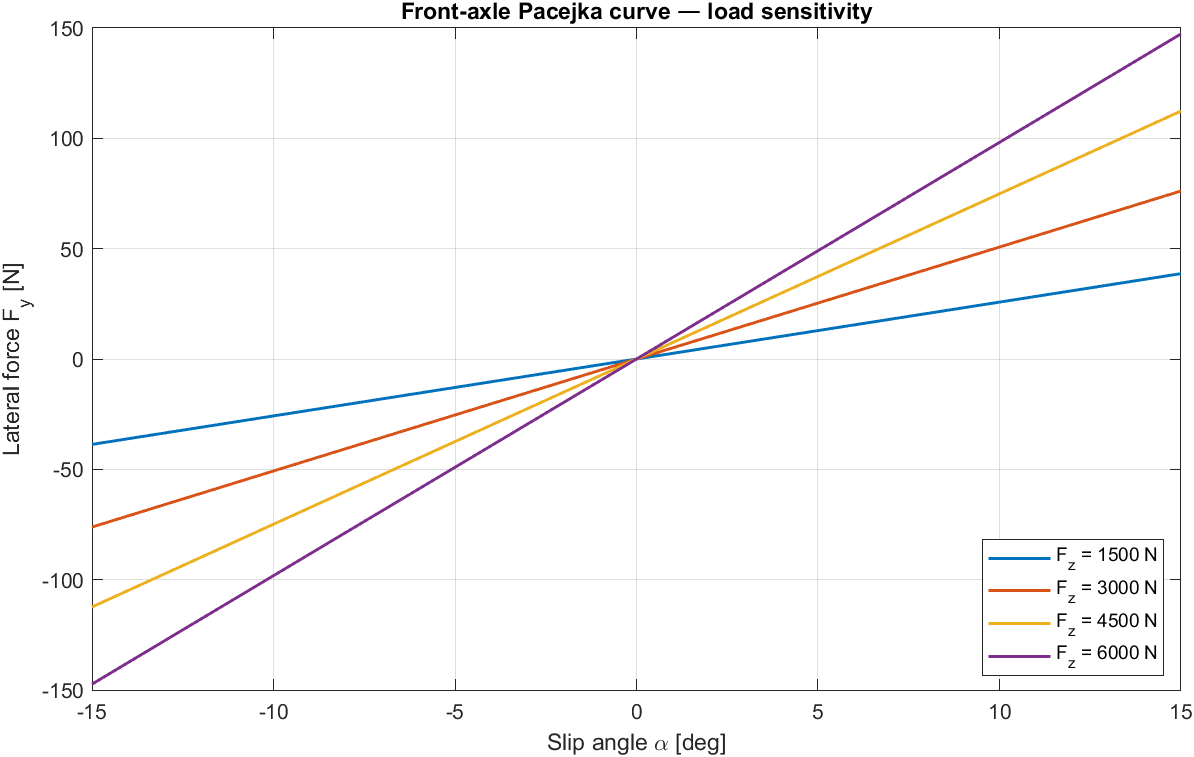
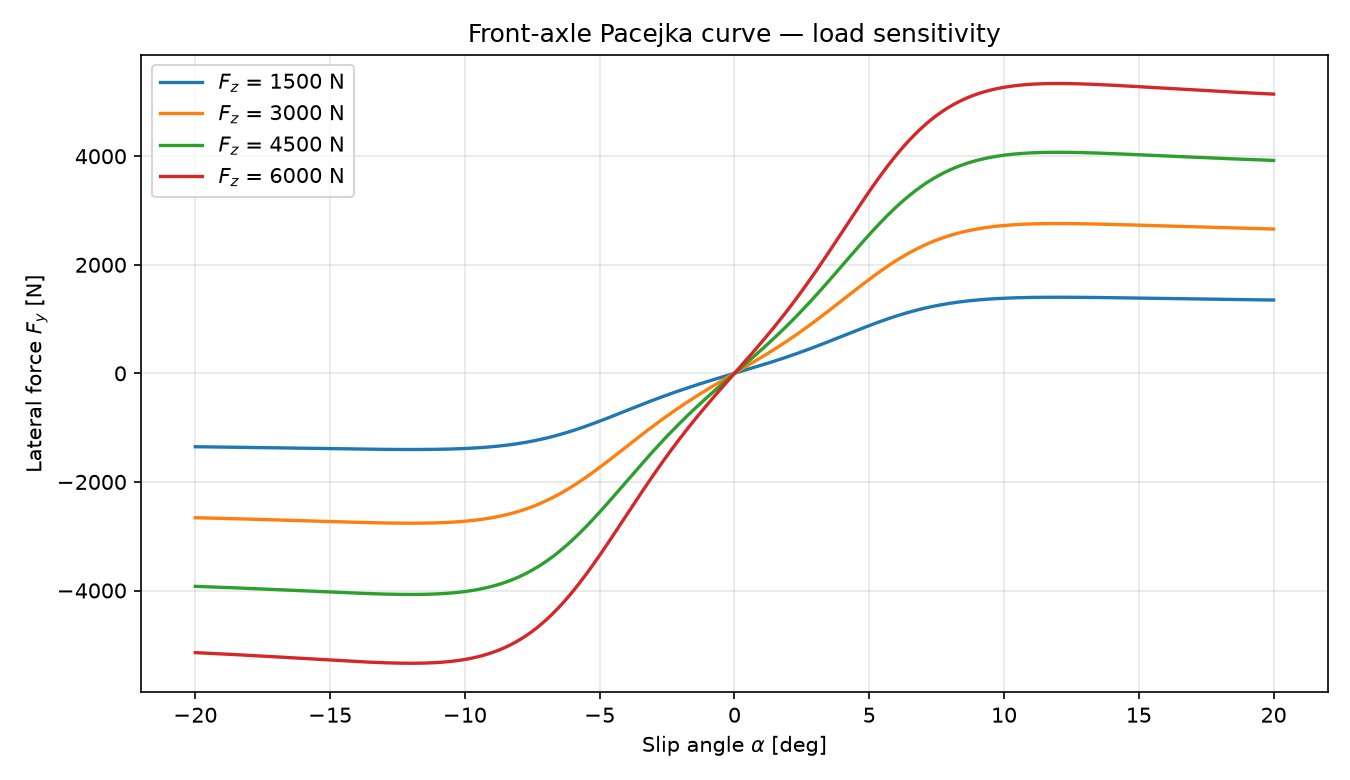
Modernise: CI smoke tests, slip-unit fix in Pacejka plots, cleanup
- Remove internal review notes (NOTES_FOR_REVIEW.md, HOW_TO_PUBLISH.md)
- Fix plot_pacejka_curves.m: coefficients expect slip angle in degrees
  (models convert rad->deg before the tyre block); figures regenerated
- Add smoke-test suite: every parameter file runs, every .slx loads
- MATLAB build tool plan + GitHub Actions CI (Simulink, Aerospace Blockset)
- Open in MATLAB Online badge, quick start, Dependabot

Claude-Session: https://claude.ai/code/session_01BhFvkV62v96ivustyEBc4v

diff --git a/tests/ModelsTest.m b/tests/ModelsTest.m
@@ -1,0 +1,61 @@
+classdef ModelsTest < matlab.unittest.TestCase
+    %MODELSTEST  Smoke tests: every parameter file runs and every Simulink model loads.
+    %   Run with:  buildtool test
+
+    properties (TestParameter)
+        paramFile = struct( ...
+            "quarterCar",   "01_quarter_car/Quarter_car_model_parameters.m", ...
+            "dof4",         "02_dof4/DOF4_model_parameters.m", ...
+            "dof7",         "03_dof7_shaker/Suspension_shaker_rig_model_parameters.m", ...
+            "dof10",        "04_dof10_shaker/Suspension_shaker_rig_dof10_model_parameters.m", ...
+            "dof14",        "05_dof14_full_vehicle/Complete_vehicle_simulation_dof14_model_parameters.m", ...
+            "bicycle",      "06_bicycle/Bicycle_model_parameters_formula.m", ...
+            "driving",      "07_longitudinal/Driving_dynamics_parameters.m", ...
+            "longDriving",  "07_longitudinal/Longitudinal_driving_parameters.m", ...
+            "braking",      "07_longitudinal/Longitudinal_braking_parameters.m", ...
+            "pacejka",      "08_pacejka_tyres/Pacejka_lateral_parameters.m");
+
+        model = struct( ...
+            "quarterCar",   "01_quarter_car/Quarter_car_model.slx", ...
+            "dof4",         "02_dof4/DOF4_model.slx", ...
+            "dof7",         "03_dof7_shaker/Suspension_shaker_rig_model.slx", ...
+            "dof10",        "04_dof10_shaker/DOF10_Suspension_shaker_rig_model.slx", ...
+            "dof14",        "05_dof14_full_vehicle/Complete_vehicle_simulation_dof14_model.slx", ...
+            "bicycle",      "06_bicycle/Bicycle_model.slx", ...
+            "braking",      "07_longitudinal/Braking_dynamics_model.slx", ...
+            "driving",      "07_longitudinal/Driving_dynamics_model.slx", ...
+            "pacejkaLat",   "08_pacejka_tyres/Pacejka_lateral_tyre_model.slx", ...
+            "pacejkaLong",  "08_pacejka_tyres/Pacejka_longitudinal_tyre_model.slx", ...
+            "pacejka",      "08_pacejka_tyres/Pacejka_tyre_model.slx");
+    end
+
+    properties
+        Root
+    end
+
+    methods (TestClassSetup)
+        function setRoot(tc)
+            tc.Root = fileparts(fileparts(mfilename("fullpath")));
+        end
+    end
+
+    methods (Test)
+        function parameterFileRuns(tc, paramFile)
+            f = fullfile(tc.Root, paramFile);
+            tc.verifyWarningFree(@() evalinIsolated(f));
+        end
+
+        function modelLoads(tc, model)
+            f = fullfile(tc.Root, model);
+            [~, name] = fileparts(f);
+            load_system(f);
+            tc.addTeardown(@() close_system(name, 0));
+            tc.verifyTrue(bdIsLoaded(name));
+        end
+    end
+end
+
+function evalinIsolated(file)
+% Run a parameter script in its own workspace so tests stay independent
+run(file);
+end

diff --git a/buildfile.m b/buildfile.m
@@ -1,0 +1,25 @@
+function plan = buildfile
+%BUILDFILE  MATLAB build plan (R2023b+).
+%   buildtool            -> static code analysis + smoke tests (models load, params run)
+%   buildtool figures    -> regenerate the README figures (needs results/data/*.mat)
+import matlab.buildtool.tasks.CodeIssuesTask
+import matlab.buildtool.tasks.TestTask
+
+plan = buildplan(localfunctions);
+
+plan("check") = CodeIssuesTask(["shared", "figures", "tests"]);
+plan("test")  = TestTask("tests");
+
+plan.DefaultTasks = ["check", "test"];
+end
+
+function figuresTask(~)
+% Regenerate the README figures
+here = pwd;
+cleanup = onCleanup(@() cd(here));
+cd(fullfile(fileparts(mfilename("fullpath")), "figures"));
+for s = ["plot_pacejka_curves", "plot_aero_comparison", "plot_vehicle_comparison", "plot_fft_modes"]
+    run(s);
+    close all;
+end
+end

diff --git a/figures/plot_pacejka_curves.m b/figures/plot_pacejka_curves.m
@@ -21,8 +21,9 @@ addpath('../05_dof14_full_vehicle');
 Complete_vehicle_simulation_dof14_model_parameters;
 
 %% Slip-angle sweep
-alpha_deg = -15:0.1:15;
-alpha     = deg2rad(alpha_deg);
+alpha_deg = -20:0.1:20;
+alpha     = alpha_deg;   % coefficients are fitted with slip angle in DEGREES (the
+                        % Simulink models convert rad -> deg before the tyre block)
 
 %% Vertical loads to evaluate the family at
 Fz_set = [1500 3000 4500 6000];   % N — adjust to your operating window

diff --git a/README.md b/README.md
@@ -1,5 +1,10 @@
 # Vehicle Dynamics Models — MATLAB & Simulink
 
+[![CI](https://github.com/jaykumarpatil9099/vehicle-dynamics-models-matlab-simulink/actions/workflows/ci.yml/badge.svg)](https://github.com/jaykumarpatil9099/vehicle-dynamics-models-matlab-simulink/actions/workflows/ci.yml)
+[![Open in MATLAB Online](https://www.mathworks.com/images/responsive/global/open-in-matlab-online.svg)](https://matlab.mathworks.com/open/github/v1?repo=jaykumarpatil9099/vehicle-dynamics-models-matlab-simulink)
+![MATLAB](https://img.shields.io/badge/MATLAB%20%2F%20Simulink-R2024b%2B-orange)
+[![License: MIT](https://img.shields.io/badge/License-MIT-green.svg)](LICENSE)
+
 A MATLAB / Simulink toolkit covering the standard vehicle-dynamics modelling progression — from a quarter-car ride model up to a 14-DoF full-vehicle model — built during the M.Sc. Vehicle Engineering programme at Hochschule Trier and used as the simulation backbone for the [GT3 Lap Time Simulator](https://github.com/jaykumarpatil9099/gt3-lap-time-simulator).
 
 ## What's in here
@@ -46,7 +51,7 @@ A reusable FFT helper with automatic zero-padding to the next power of two, appl
 
 ## Pacejka tyre library
 
-Lateral, longitudinal, and combined-slip implementations of the Magic Formula. Coefficients (`B`, `C`, `E`, peak value) exposed as parameters so the same blocks can be re-tuned for different tyre types — formula slick, road tyre, etc. The 14-DoF and bicycle models both consume them. A standalone extraction is planned as part of the v06 extension to the [GT3 Lap Time Simulator](https://github.com/jaykumarpatil9099/gt3-lap-time-simulator), where the simplified `μ(Fz)` surrogate currently used for QSS will be replaced with this slip-curve model.
+Lateral, longitudinal, and combined-slip implementations of the Magic Formula. Coefficients (`B`, `C`, `E`, peak value) exposed as parameters so the same blocks can be re-tuned for different tyre types — formula slick, road tyre, etc. The 14-DoF and bicycle models both consume them, with slip angle in **degrees** (the models convert rad → deg with an Angle Conversion block before the tyre). A standalone, unit-tested extraction with a Python port lives in [pacejka-tyre-model](https://github.com/jaykumarpatil9099/pacejka-tyre-model), and an MF 5.2 version drives the v06 release of the [GT3 Lap Time Simulator](https://github.com/jaykumarpatil9099/gt3-lap-time-simulator).
 
 ![Pacejka — front vs rear axle](figures/fig_pacejka_lateral_axle_comparison.png)
 
@@ -57,9 +62,20 @@ Lateral, longitudinal, and combined-slip implementations of the Magic Formula. C
 - **Shaker rig isolates ride.** The 7-DoF and 10-DoF shaker models drive road inputs into the unsprung masses with no longitudinal/lateral coupling, which is the standard way to validate ride tuning before composing it into the full 14-DoF.
 - **Formula-class default set.** The default 14-DoF parameters describe a low-mass, high-downforce car with stiff race suspension. Switching to a road-car parameter set requires updating mass, inertia, suspension rates, and Pacejka coefficients consistently — the bicycle model's parameter file is one example of a road-car set.
 
+## Quick start
+
+The models are saved in R2024b. Open them in MATLAB/Simulink R2024b or newer, or use *Open in MATLAB Online* above:
+
+```matlab
+buildtool            % static code analysis + smoke tests (every model loads, every parameter file runs)
+buildtool figures    % regenerate the README figures
+```
+
+The same checks run in GitHub Actions on every push (Simulink and Aerospace Blockset are installed on the runner).
+
 ## Background
 
-Built during the Vehicle Dynamics Modelling and Simulation course of the M.Sc. Interdisciplinary Engineering (Automotive) programme at [Hochschule Trier](https://www.hochschule-trier.de/). Course is in progress — final assignment is outstanding and the certificate has not been issued yet. Maintained as the simulation library backing the [GT3 Lap Time Simulator](https://github.com/jaykumarpatil9099/gt3-lap-time-simulator).
+Built during the Vehicle Dynamics Modelling and Simulation course of the M.Sc. Interdisciplinary Engineering (Automotive) programme at [Hochschule Trier](https://www.hochschule-trier.de/). Maintained as the simulation library backing the [GT3 Lap Time Simulator](https://github.com/jaykumarpatil9099/gt3-lap-time-simulator).
 
 ## License
 

diff --git a/figures/INSTRUCTIONS.md b/figures/INSTRUCTIONS.md
@@ -1,6 +1,6 @@
 # How to generate the README figures
 
-All four scripts run in MATLAB R2024a. Each one writes one or more `fig_*.png` files into this folder, which the README then references.
+All four scripts run in MATLAB R2024b. Each one writes one or more `fig_*.png` files into this folder, which the README then references.
 
 ## One-time setup
 
